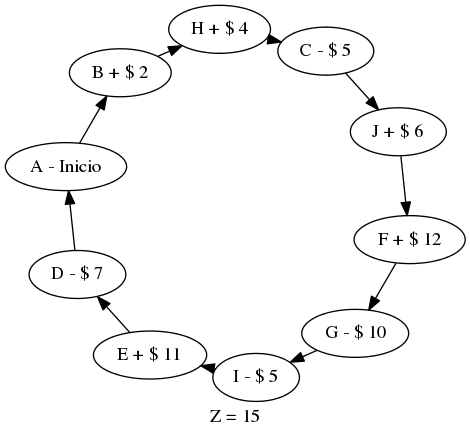
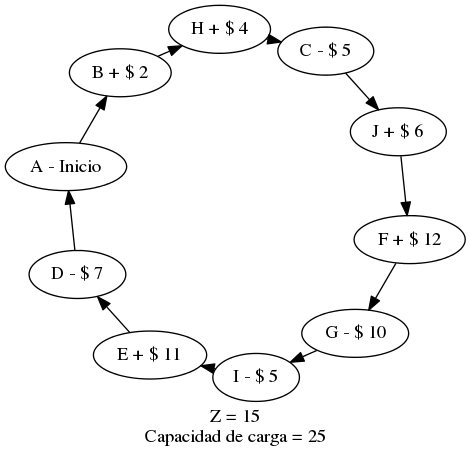
Agregada capacidad de carga al grafo.

Changed region(s): [[0.0, 0.0, 1.0, 0.9817], [0.2681, 0.8627, 0.3574, 0.8924]]

diff --git a/graph.py b/graph.py
@@ -26,7 +26,7 @@ g.add_edge('G','I')
 g.add_edge('I','E')
 g.add_edge('E','D')
 g.add_edge('D','A')
-g.graph_attr['label'] = 'Z = 15'
+g.graph_attr['label'] = 'Z = 15\nCapacidad de carga = 25'
 g.draw("solucion.png",prog='neato')
 
 
